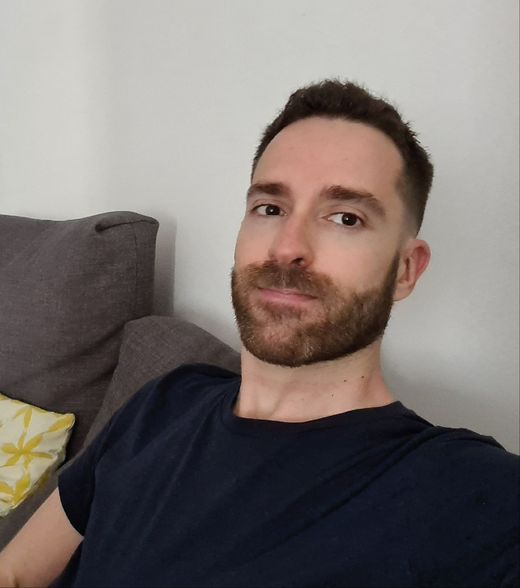
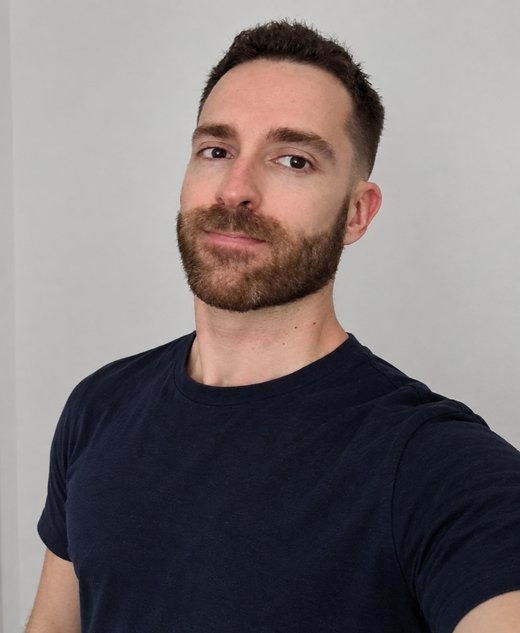
Add files via upload

diff --git a/index.html b/index.html
@@ -271,7 +271,9 @@
     width: 100%;
     border: 1px solid var(--line);
     box-shadow: 0 16px 40px -18px rgba(0,0,0,0.8);
+    transition: opacity 0.15s ease;
   }
+  .outings a:hover img{ opacity: 0.85; }
   .outings-title{
     font-size: clamp(28px, 4.2vw, 40px);
     line-height: 1.12;
@@ -380,7 +382,9 @@
   </section>
 
   <section id="salidas" class="outings">
-    <img src="stargazers-promo.jpg" alt="Captura de la web Stargazers Catalunya, con previsión de observación, calendario lunar y mapa de contaminación lumínica">
+    <a href="https://stargazerscataluny.wixsite.com/stargazers-catalunya" target="_blank" rel="noopener">
+      <img src="stargazers-promo.jpg" alt="Captura de la web Stargazers Catalunya, con previsión de observación, calendario lunar y mapa de contaminación lumínica">
+    </a>
     <div>
       <span class="kicker">Stargazers Catalunya</span>
       <h2 class="outings-title">Ven a observar con nosotros</h2>
